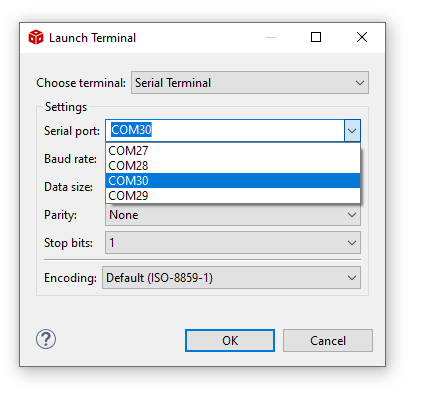
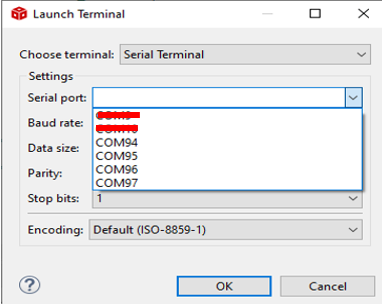
am62dx: docs: Update documentation for am62dx
* Updated UART instance correction
        * Added Nand boot mode
        * Updated datasheet for performance values
        * Updated about EEPROM WP pin

Fixes: SITESW-4808

Changed region(s): [[0.0, 0.0, 1.0, 1.0], [0.0864, 0.8289, 0.144, 0.8882], [0.9503, 0.7993, 0.9791, 0.8289]]

diff --git a/docs_src/docs/api_guide/datasheet/datasheet_am62dx_evm.md b/docs_src/docs/api_guide/datasheet/datasheet_am62dx_evm.md
@@ -119,8 +119,8 @@ SBL Stage2: Total time taken            |   67.780
 Local Core  | Remote Core | Average Message Latency (us)
 ------------|-------------|------------------------------
  r5f0-0     | mcu-r5f0-0  |  1.12
- r5f0-0     | a530-0      |  6.79
- r5f0-0     | c75ss0      |  18.01
+ r5f0-0     | a530-0      |  8.90
+ r5f0-0     | c75ss0      |  29.86
 
 #### IPC RPMSG
 
@@ -128,39 +128,39 @@ Local Core  | Remote Core | Average Message Latency (us)
 
 Local Core  | Remote Core | Message Size | Average Message Latency (us) | Max Latency (us)
 ------------|-------------|--------------|------------------------------|------------------
-      r5f0-0|       a530-0|            32|                         9.619|                12
-      r5f0-0|       a530-0|            64|                        12.584|                17
-      r5f0-0|       a530-0|           112|                        17.308|                22
-      r5f0-0|   mcu-r5f0-0|            32|                        14.215|                17
-      r5f0-0|   mcu-r5f0-0|            64|                        20.734|                27
-      r5f0-0|   mcu-r5f0-0|           112|                        30.550|                38
-      r5f0-0|       c75ss0|            32|                        76.941|               103
-      r5f0-0|       c75ss0|            64|                        86.202|               104
-      r5f0-0|       c75ss0|           112|                        93.336|               112
+      r5f0-0|       a530-0|            32|                        10.940|                17
+      r5f0-0|       a530-0|            64|                        14.735|                20
+      r5f0-0|       a530-0|           112|                        20.705|                26
+      r5f0-0|   mcu-r5f0-0|            32|                        18.197|                24
+      r5f0-0|   mcu-r5f0-0|            64|                        27.343|                33
+      r5f0-0|   mcu-r5f0-0|           112|                        40.974|                46
+      r5f0-0|       c75ss0|            32|                       109.337|               128
+      r5f0-0|       c75ss0|            64|                       110.234|               148
+      r5f0-0|       c75ss0|           112|                       132.391|               152
 
 
 ### EMMC Performance
 
 Mode   | Data size(MiB) | Write speed(MiBps) | Read speed(MiBps)
 -------|----------------|--------------------|-----------------
- SDR50 | 1	            | 35.20		         | 45.00
- SDR50 | 4	            | 41.55		         | 45.54
- SDR50 | 6	            | 41.63		         | 44.24
- DDR50 | 1	            | 54.16		         | 81.77
- DDR50 | 4	            | 54.87		         | 83.65
- DDR50 | 6	            | 61.99		         | 79.33
- HS200 | 1	            | 73.72		         | 157.99
- HS200 | 4	            | 109.78		   | 169.31
- HS200 | 6	            | 109.95		   | 152.03
+ SDR50 | 1	            | 41.36		         | 46.04
+ SDR50 | 4	            | 42.36		         | 46.51
+ SDR50 | 6	            | 42.44		         | 46.54
+ DDR50 | 1	            | 69.36		         | 85.15
+ DDR50 | 4	            | 56.89		         | 86.96
+ DDR50 | 6	            | 66.57		         | 87.06
+ HS200 | 1	            | 105.10		     | 169.81
+ HS200 | 4	            | 112.91		     | 183.47
+ HS200 | 6	            | 97.30		         | 183.96
 
 
 ### OSPI Performance
- - Flash protocol: FLASH_CFG_PROTO_1S_8S_8S
+ - Flash protocol: FLASH_CFG_PROTO_8D_8D_8D
  - PHY : enabled
  - DMA : enabled
 
 Data size(MiB) | Write speed(MiBps) | Read speed(MiBps)
 ---------------|--------------------|-----------------
- 1	       | 2.35		            | 50.39
- 5	       | 2.36		            | 50.38
- 10	       | 2.36		            | 50.38
+ 1	           | 0.45		        | 326.04
+ 5	           | 0.45		        | 327.00
+ 10	           | 0.45		        | 327.11

diff --git a/docs_src/docs/api_guide/device/am62dx/am62dx_evm_setup.md b/docs_src/docs/api_guide/device/am62dx/am62dx_evm_setup.md
@@ -47,10 +47,10 @@
 
 - Select the UART port, keep other options to default, i.e 115200 baud rate - 8 data bits - No parity - 1 stop bit,
 
-  - We use the 1st USB serial port, as seen in the device manager, for below in the SDK
+  - We use the 2nd USB serial port, as seen in the device manager, for below in the SDK
     - Flashing application via UART
     - Booting application via UART
-    - Uboot and Linux terminal
+
   - We use the 3rd USB serial port, as seen in the device manager, as terminal output for examples which run from DM R5F (WKUP R5F)
 
   - We use the 4th USB serial port, as seen in the device manager, as terminal output for examples which run from MCU R5F
@@ -58,7 +58,7 @@
       \imageStyle{ccs_uart_02.png,width:25%}
       \image html ccs_uart_02.png "Connect to UART port"
 
-  - In this screenshot this happens to be COM27 and COM30. However on your machine this could be different.
+  - In this screenshot this happens to be COM95, COM96 and COM97. However on your machine this could be different.
     One tip to make sure there is no mistake in identifying the UART port is to disconnect all other UART to USB devices other than this EVM before checking in device manager.
 
 
@@ -187,6 +187,16 @@ This mode is used to boot flashed applications via EVM flash like OSPI NOR flash
     \endcode
   \imageStyle{boot_pins_ospi_mode.png,width:30%}
   \image html boot_pins_ospi_mode.png "OSPI BOOT MODE"
+
+#### OSPI SERIAL NAND BOOT MODE  {#BOOTMODE_OSPI_NAND}
+This mode is used to boot flashed applications via EVM flash like OSPI Serial NAND flash
+    \code
+    BOOTMODE [ 8 : 15 ] (SW3) = 0000 0000
+    BOOTMODE [ 0 :  7 ] (SW2) = 1100 0000
+    \endcode
+
+  \imageStyle{boot_pins_ospi_nand_mode.png,width:30%}
+  \image html boot_pins_ospi_nand_mode.png "OSPI NAND BOOT MODE"
 
 #### SD BOOT MODE  {#BOOTMODE_SD}
 This mode is used to boot applications via SD card on the EVM.

diff --git a/docs_src/docs/api_guide/getting_started/download_and_install.md b/docs_src/docs/api_guide/getting_started/download_and_install.md
@@ -185,13 +185,6 @@ To build applications using this SDK, one needs below host PC machine
         C:\> openssl version
         OpenSSL 1.1.1k  25 Mar 2021
 
-### PRU-CGT {#INSTALL_PRU-CGT}
-
-\attention You MUST install PRU-CGT if trying to build PRU firmware.
-
-\par
-[PRU-CGT-2-3](https://www.ti.com/tool/PRU-CGT) (ti-pru-cgt) should be installed at: `C:/ti/` when working with PRU firmware development.
-
 ### Mono Runtime {#INSTALL_MONO}
 
 \attention You MUST install mono runtime only if you're on Linux

diff --git a/docs_src/docs/api_guide/components/drivers/i2c.md b/docs_src/docs/api_guide/components/drivers/i2c.md
@@ -33,7 +33,13 @@ SysConfig can be used to configure below parameters apart from common configurat
 
 ## Important Usage Guidelines
 
+\cond !SOC_AM62DX
 NA
+\endcond
+
+\cond SOC_AM62DX
+J20 header pins needs to be shorted for having the write protect disabled for the EEPROM
+\endcond
 
 ## Example Usage
 

diff --git a/docs_src/docs/api_guide/components/board/eeprom.md b/docs_src/docs/api_guide/components/board/eeprom.md
@@ -34,7 +34,13 @@ NA
 
 ## Important Usage Guidelines
 
+\cond !SOC_AM62DX
 None
+\endcond
+
+\cond SOC_AM62DX
+J20 header pins needs to be shorted for having the write protect disabled for the EEPROM
+\endcond
 
 ## Example Usage
 
